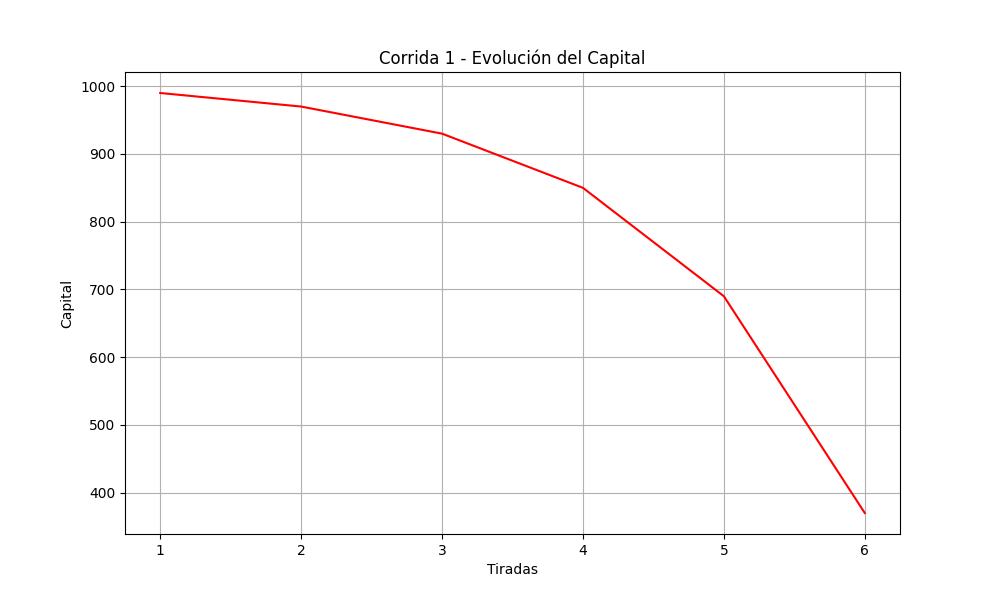
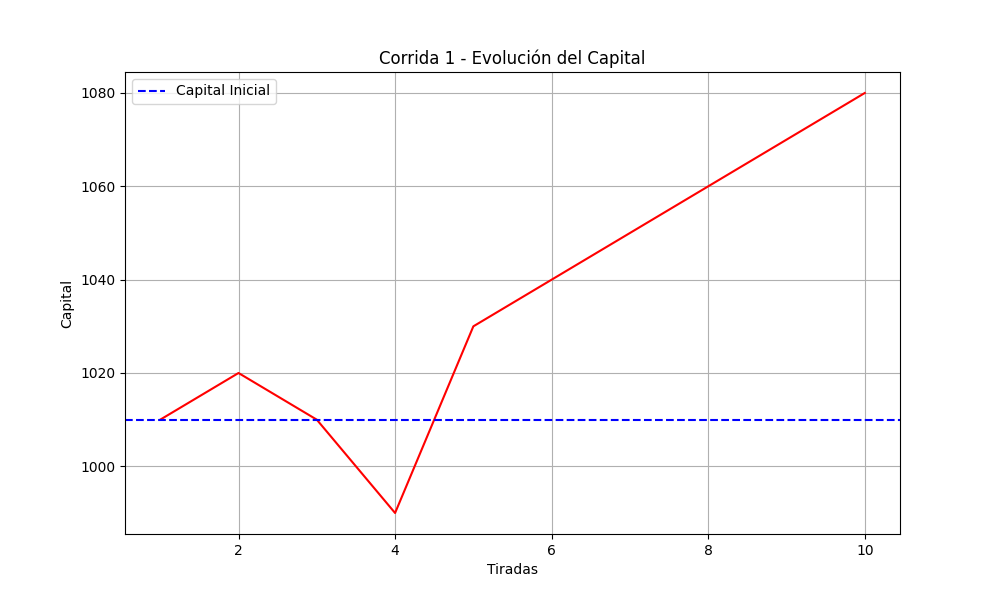
Correcciones y graficas

diff --git a/1.2/tp_1_2ruleta_grupoAimaretti.py b/1.2/tp_1_2ruleta_grupoAimaretti.py
@@ -22,8 +22,14 @@ def apostar_fibonacci(historial_apuestas, gano):
         historial_apuestas.append(historial_apuestas[-1] + (historial_apuestas[-2] if len(historial_apuestas) > 1 else 0))
     return historial_apuestas[-1], historial_apuestas
 
-def apostar_otra(apuesta_actual, gano):
-    return 10 if gano else min(apuesta_actual * 1.5, 500)
+def apostar_paroli(apuesta_actual, gano):
+    if gano:
+        if apuesta_actual < 80:
+            return apuesta_actual * 2
+        else:
+            return 10
+    else:
+        return 10
 
 def estrategia(apuesta_actual, historial, gano, tipo):
     if tipo == 'm':
@@ -34,9 +40,42 @@ def estrategia(apuesta_actual, historial, gano, tipo):
         nueva_apuesta, historial = apostar_fibonacci(historial, gano)
         return nueva_apuesta, historial
     elif tipo == 'o':
-        return apostar_otra(apuesta_actual, gano), historial
+        return apostar_paroli(apuesta_actual, gano), historial
     else:
         raise ValueError("Estrategia no reconocida")
+
+def get_row(number):
+    if number == 0:
+        return None
+    if number % 3 == 1:
+        return "primera"
+    elif number % 3 == 2:
+        return "segunda"
+    else:
+        return "tercera"
+
+def get_dozen(number):
+    if 1 <= number <= 12:
+        return "primera docena"
+    elif 13 <= number <= 24:
+        return "segunda docena"
+    elif 25 <= number <= 36:
+        return "tercera docena"
+    else:
+        return None
+
+def odd_even(number):
+    if number == 0:
+        return None
+    return "par" if number % 2 == 0 else "impar"
+
+def red_black(number):
+    if number == 0:
+        return None
+    if number in [1, 3, 5, 7, 9, 12, 14, 16, 18, 19, 21, 23, 25, 27, 30, 32, 34, 36]:
+        return "rojo"
+    else:
+        return "negro"
 
 def jugar(tiradas, numero_elegido, tipo_estrategia, capital_tipo, capital_inicial):
     capital = capital_inicial
@@ -46,35 +85,71 @@ def jugar(tiradas, numero_elegido, tipo_estrategia, capital_tipo, capital_inicia
     banca_rota = False
 
     for i in range(tiradas):
-        resultado = simular_ruleta()
-        gano = (resultado == numero_elegido)
+        if capital >= apuesta or capital_tipo == 'i':
+            resultado = simular_ruleta()
+            gano = False
 
-        if capital_tipo == 'f' and capital < apuesta:
+            if numero_elegido in ['f1', 'f2', 'f3']:
+                if (get_row(resultado) == {'f1': 'primera', 'f2': 'segunda', 'f3': 'tercera'}[numero_elegido]):
+                    gano = True
+            elif numero_elegido in ['d1', 'd2', 'd3']:
+                if (get_dozen(resultado) == {'d1': 'primera docena', 'd2': 'segunda docena', 'd3': 'tercera docena'}[numero_elegido]):
+                    gano = True
+            elif numero_elegido == 'p':
+                if odd_even(resultado) == 'par':
+                    gano = True
+            elif numero_elegido == 'i':
+                if odd_even(resultado) == 'impar':
+                    gano = True
+            elif numero_elegido == 'r':
+                if red_black(resultado) == 'rojo':
+                    gano = True
+            elif numero_elegido == 'n':
+                if red_black(resultado) == 'negro':
+                    gano = True
+            elif numero_elegido == '0':
+                if resultado == 0:
+                    gano = True
+            else:
+                try:
+                    if resultado == int(numero_elegido):
+                        gano = True
+                except:
+                    raise ValueError("Número elegido no válido")
+
+            if gano:
+                if numero_elegido in ['f1', 'f2', 'f3', 'd1', 'd2', 'd3']:
+                    capital += apuesta * 2
+                elif numero_elegido in ['p', 'i', 'r', 'n']:
+                    capital += apuesta
+                else:
+                    capital += apuesta * 35
+            else:
+                capital -= apuesta
+
+            apuesta, historial_apuestas = estrategia(apuesta, historial_apuestas, gano, tipo_estrategia)
+            if capital_tipo == 'i' and capital <= 0:
+                capital = 10
+        else:
             banca_rota = True
             break
-
-        if gano:
-            capital += apuesta * 35  # gana 35 veces la apuesta + la apuesta original
-        else:
-            capital -= apuesta
-
-        apuesta, historial_apuestas = estrategia(apuesta, historial_apuestas, gano, tipo_estrategia)
 
         capital_historial.append(capital)
 
-        if capital_tipo == 'f' and capital <= 0:
-            banca_rota = True
-            break
+    while len(capital_historial) < tiradas:
+        capital_historial.append(capital)
 
     return capital_historial, banca_rota
 
 def graficar_capital(capital_historial, titulo, nombre_archivo):
     plt.figure(figsize=(10, 6))
     plt.plot(range(1, len(capital_historial)+1), capital_historial, color='red')
+    plt.axhline(y=capital_historial[0], color='blue', linestyle='--', label='Capital Inicial')
     plt.title(titulo)
     plt.xlabel("Tiradas")
     plt.ylabel("Capital")
     plt.grid(True)
+    plt.legend()
     plt.savefig(nombre_archivo)
     plt.close()
 
@@ -82,29 +157,27 @@ def main():
     parser = argparse.ArgumentParser()
     parser.add_argument("-c", "--corridas", type=int, default=1, help="Número de corridas")
     parser.add_argument("-n", "--tiradas", type=int, default=1000, help="Número de tiradas por corrida")
-    parser.add_argument("-e", "--elegido", type=int, default=17, help="Número elegido")
+    parser.add_argument("-e", "--elegido", type=str, default='17', help="Número elegido")
     parser.add_argument("-s", "--estrategia", type=str, required=True, help="Estrategia: m (martingala), d (D'Alembert), f (Fibonacci), o (otra)")
     parser.add_argument("-a", "--capital", type=str, required=True, help="Capital: f (finito), i (infinito)")
     parser.add_argument("-i", "--inicial", type=int, default=1000, help="Capital inicial")
     args = parser.parse_args()
 
-    corridas = args.corridas
-    tiradas = args.tiradas
-    numero_elegido = args.elegido
-    tipo_estrategia = args.estrategia
-    capital_tipo = args.capital
-    capital_inicial = args.inicial
-
     banca_rotas = 0
 
-    for i in range(corridas):
-        capital_historial, banca_rota = jugar(tiradas, numero_elegido, tipo_estrategia, capital_tipo, capital_inicial)
+    for i in range(args.corridas):
+        capital_historial, banca_rota = jugar(args.tiradas, args.elegido, args.estrategia, args.capital, args.inicial)
         graficar_capital(capital_historial, f"Corrida {i+1} - Evolución del Capital", f"capital_corrida_{i+1}.png")
         if banca_rota:
             banca_rotas += 1
 
     print(f"Simulación finalizada.")
-    print(f"Total de bancarrotas: {banca_rotas} de {corridas} corridas.")
+    print(f"Resultados de la estrategia '{args.estrategia}' con capital '{args.capital}':")
+    print(f"Capital inicial: {args.inicial}")
+    print(f"Número elegido: {args.elegido}")
+    print(f"Número de tiradas por corrida: {args.tiradas}")
+    print(f"Número de corridas: {args.corridas}")
+    print(f"Total de bancarrotas: {banca_rotas} de {args.corridas} corridas.")
 
 if __name__ == "__main__":
     main()
